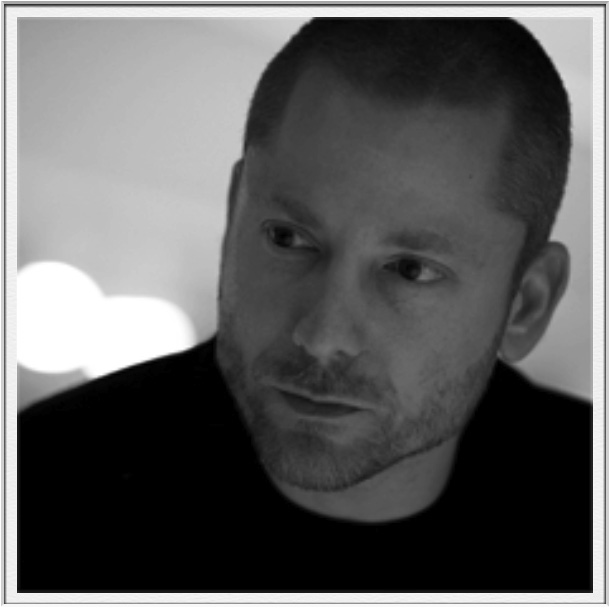
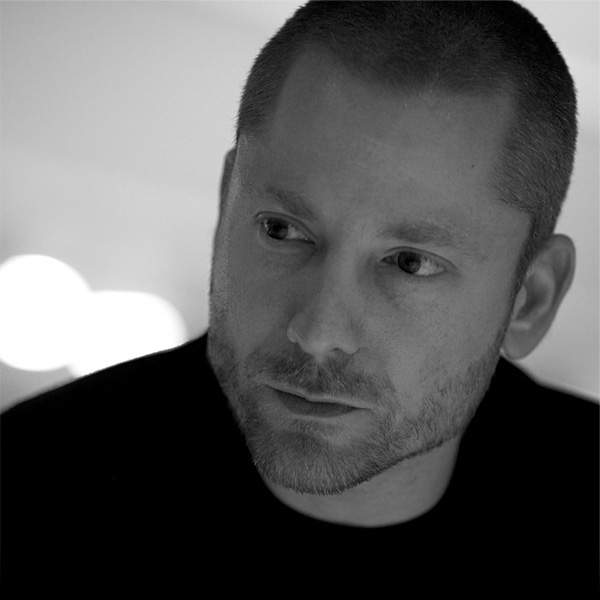
Initial version for release

diff --git a/index.html b/index.html
@@ -27,15 +27,23 @@
 		<section role="main">
 			<h2>Course summary</h2>
 			<!-- <img style="width:100%;" src="/images/blueprints.jpg" alt="iPhone and iPad blueprints"> -->
-			<p><strong>This three‐day intensive workshop written and presented by experience designer and developer Aral Balkan will teach you solid foundations in designing and developing native iPhone and iPad apps using modern practices in Objective-C and Cocoa Touch.</strong>
+			<p><strong>In unique, three‐day intensive workshop written and presented by experience designer and developer Aral Balkan will empower you with solid foundations in designing and developing native iPhone and iPad apps using modern practices in Objective-C and Cocoa Touch.</strong>
 
-			<p>The course covers the latest tools, technologies, and devices, including Xcode 4.5, Objective-C 2.0, iOS6, and the new iPhone 5.</p>
+			<p>The course is constantly updated and covers the latest tools, technologies, and devices, including Xcode 4.5, Objective-C 2.0, iOS6, and the new iPhone 5.</p>
+
+			<p>This is the right class for you if you are a developer with real‐world experience in at least one object‐oriented programming language (scripting languages like JavaScript, ActionScript, Python, and Ruby count).</p>
+
+			<p>Experience with Objective‐C or Cocoa Touch is not necessary.</p>
+
 			<p>You will spend three days hands‐on coding with Aral as you learn how to build native apps that conform to Apple’s coding practices and human interface guidelines.</p>
-			<p>The aim of the class is not to razzle dazzle you by showing you all of the latest snazzy APIs. Instead, you will be empowered with a solid foundation in Objective‐C and Cocoa Touch so that you understand the culture and conventions of the iOS platform and can subsequently learn to use any of the thousands of iOS APIs you may encounter in your own projects.</p>
+
+			<p>This is also the right course for you if you have been dabbling in iOS development without entirely understanding everything you’re doing. The course will cover all of the core concepts in detail to ensure that there are no gaps left in your knowledge. You will learn why we do things in certain ways, instead of relying on copy and paste snippets. Once we’re done, nothing about Objective‐C or Cocoa Touch will seem mysterious or magical. You will be writing&#8202;—&#8202;and understanding the reason for&#8202;—&#8202;every line of code in your apps . Even past students who had already worked professionally on iOS apps and who had published apps on the App Store reported benefiting greatly from the solid foundations they gained from the course.</p>
+
+			<p>The aim of the workshop is not to razzle dazzle you by showing you all of the latest snazzy APIs. Instead, you will be empowered with solid foundations in Objective‐C and Cocoa Touch, an understanding of the culture and conventions of the iOS platform, and the confidence to navigate the system frameworks. Subsequently, once you’ve completed the course, you will be well‐equipped to learn and use any of the thousands of iOS APIs that you may encounter when developing your own projects.</p>
 			<p class="highlight">Places are limited to just 12 students to ensure you get personal attention.</p>
 			<p><a href="http://eventbrite.com/moderniosdevelopmentworkshopinbrighton/">Sign up now to reserve your place.</a></p>
 			<h2>Highlights</h2>
-			<p>The following topics, and more, will be covered in this intensive, three‐day workshop:</p>
+			<p>The following topics, among others, will be covered in this intensive, hands‐on three‐day workshop:</p>
 			<ul>
 				<li>Learn about design considerations for the entire iOS platform, including hardware differences between devices (including the new iPhone 5 and new iPad) and user experience considerations when designing your apps.</li>
 				<li>Write professional code that is consistent with the conventions of Cocoa Touch and the system frameworks using Xcode 4.5 and iOS6.</li>
@@ -55,6 +63,20 @@
 			</ul>
 			<p><a href="http://eventbrite.com/moderniosdevelopmentworkshopinbrighton/">Sign up now to reserve your place.</a></p>
 
+			<h2>Requirements and prerequisites</h2>
+			<ul>
+				<li><strong>Bring your own Mac.</strong> Any recent Intel‐based machine with OS X Lion or Mountain Lion will do.</li>
+				<li>Install the latest Xcode (version 4.5)</li>
+				<li>Also install the Command Line Tools for XCode.</li>
+			</ul>
+
+			<h2>Special offers for independents and students</h2>
+				<p>A limited number of special tickets are available to support freelancers, independent developers, and students.</p>
+			<ul>
+				<li><strong>Independents, use the code INDIELOVE to get 20% off.</strong> Offer valid only for freelancers and independents who are <u>not VAT registered</u>. This is our way of removing the VAT burden for you. There are only three independent tickets available, <a href="http://eventbrite.com/moderniosdevelopmentworkshopinbrighton/">reserve your ticket today</a>.</li>
+				<li><strong>Students, use the code JUSTSTARTINGOUT to get 50% off.</strong> Offer valid only for students with a valid student ID. There are only two student tickets available, <a href="http://eventbrite.com/moderniosdevelopmentworkshopinbrighton/">secure your place now</a>.</li>
+			</ul>
+
 			<h2>Venue</h2>
 			<p>The workshop takes place in the airy Conference Room at Lighthouse. The room comfortably seats 12, benefits from natural light, and boasts the best projector in the building.</p>
 			<p>Tea, coffee, and biscuits are provided throughout the day.</p>
@@ -67,7 +89,7 @@
 		<section id="about-the-instructor">
 			<h2>About the instructor</h2>
 			<figure>
-				<img src="/images/aral2.jpg" alt="Aral Balkan, author and instructor.">
+				<img src="/images/aral.jpg" alt="Aral Balkan, author and instructor.">
 				<!-- <figcaption>Written and presented by Aral Balkan</figcaption> -->
 			</figure>
 			<blockquote>After just one day of Aral’s iOS course I’d gained a better understanding of the development tools and language than I had from many weeks referring to books and online tutorials.<span class="quote-byline">&#8202;—&#8202;John Wigzell</span></blockquote>

diff --git a/css/styles.css b/css/styles.css
@@ -160,11 +160,17 @@ section[role="main"] {
   margin-top: 2.25rem;
   max-width: 576px;
   max-width: 36rem;
+}
+section[role="main"] p,
+section[role="main"] li {
   text-align: justify;
   -webkit-hyphens: auto;
   -moz-hyphens: auto;
   -o-hyphens: auto;
   hyphens: auto;
+}
+section[role="main"] h2 {
+  text-align: left;
 }
 section[role="main"] h2:first-of-type {
   display: none;
@@ -232,7 +238,9 @@ section#about-the-instructor figure img {
   width: 100%;
   margin-bottom: 6px;
   margin-bottom: 0.375rem;
+  border: 1px solid #000;
   display: block;
+  box-sizing: border-box;
 }
 section#about-the-instructor figcaption {
   font-family: HelveticaNeue-CondensedBold, "Hevetica Neue", "Helvetica", sans-serif;
